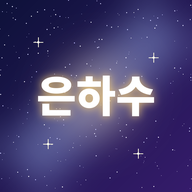
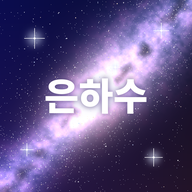
앱 아이콘을 은하수 밤하늘 그림으로 다시 그림
Claude-Session: https://claude.ai/code/session_01K8qsSk8Ty3sesHVDXPfQmN

diff --git a/sw.js b/sw.js
@@ -1,6 +1,6 @@
 // 활동지 파일을 저장해 두고 인터넷 없이도 열리게 하는 서비스 워커입니다.
 importScripts("weeks.js");
-const CACHE = "ss-v7";
+const CACHE = "ss-v9";
 // 주차 페이지는 weeks.js 목록에서 가져오고, 그림은 처음 열 때 저장됩니다.
 const FILES = ["./", "index.html", "weeks.js", "check.js", "manifest.json",
   ...WEEKS.map(w => w.date + ".html"),
